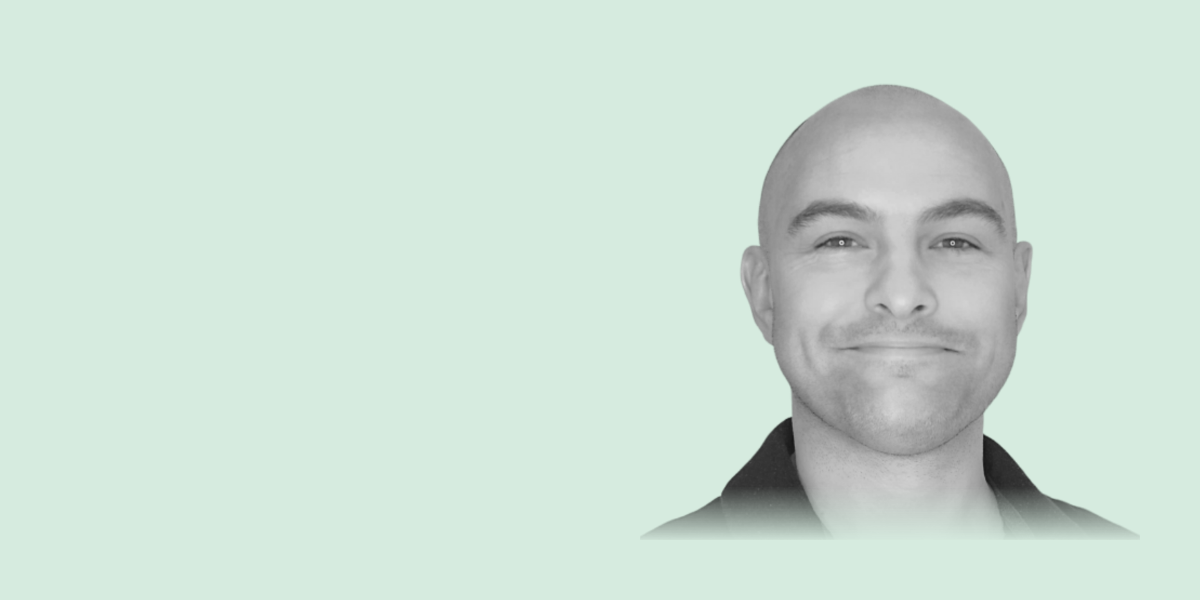
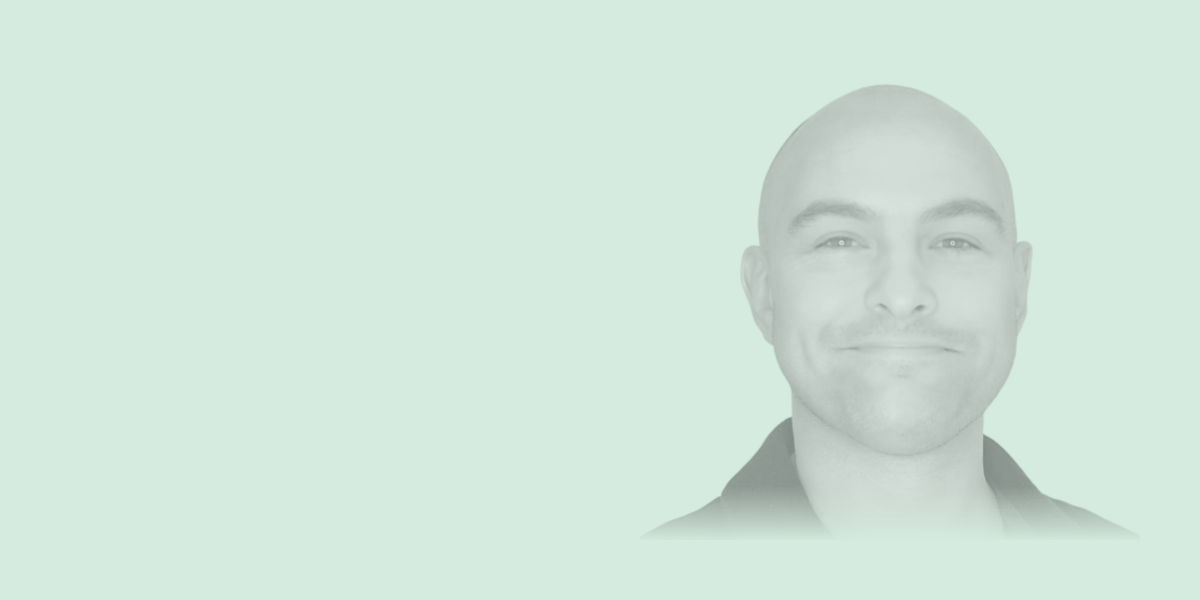
change height

Changed region(s): [[0.555, 0.12, 0.925, 0.9]]

diff --git a/layouts/partials/top-paralax.html b/layouts/partials/top-paralax.html
@@ -1,5 +1,5 @@
 <section class="dzsparallaxer auto-init height-is-based-on-content use-loading mode-scroll loaded dzsprx-readyall" data-options="{direction: 'reverse', settings_mode_oneelement_max_offset: '150'}">
-    <div class="divimage dzsparallaxer--target w-100 u-bg-overlay g-bg-img-hero" style="height: 130%; background-image: url('/img/header-bg.png'); transform: translate3d(0px, -103.635px, 0px);">
+    <div class="divimage dzsparallaxer--target w-100 u-bg-overlay g-bg-img-hero" style="height: 100%; background-image: url('/img/header-bg.png'); transform: translate3d(0px, -103.635px, 0px);">
     </div>
     <div class="u-bg-overlay_iiner">
         <div class="container g-color-white text-center g-bg-cover__inner g-pb-100 g-pt-150">
